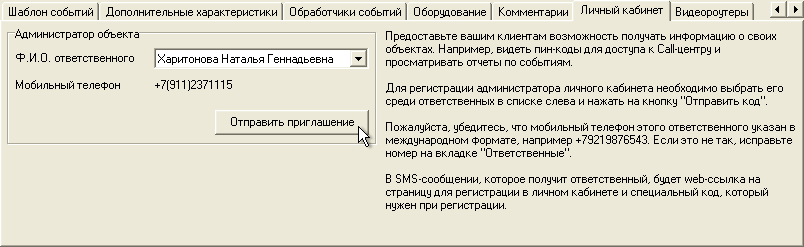
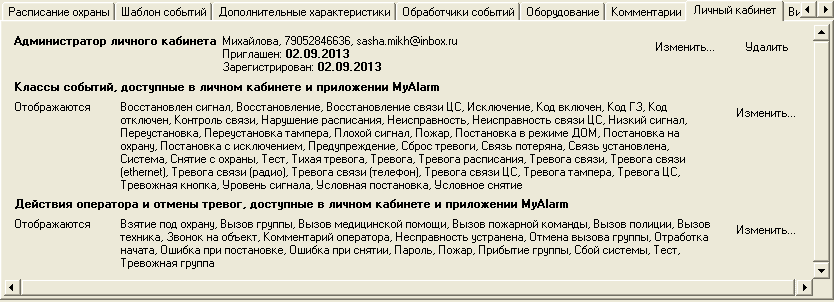
в главе "менеджер персонала" добавлен раздел "администраторы ЛК" в главе "менеджер объектов" переписан раздел "личный кабинет" в главе "что нового" поставлены новые ссылки на личный кабинет

Changed region(s): [[0.0, 0.0, 1.0, 1.0]]

diff --git a/russian/05-object-manager.md b/russian/05-object-manager.md
@@ -420,15 +420,29 @@
 
 ## Вкладка «Личный кабинет»
 
-Предоставить ответственному лицу доступ к «Личному кабинету» в Облаке можно на вкладке «Личный кабинет». Облачный сервис «Личный кабинет» позволяет клиентам частного охранного предприятия получать информацию о своих объектах (например, отчеты о постановках и снятиях с охраны, PIN коды для доступа к Call-центру).
+Облачный сервис «Личный кабинет» позволяет клиентам частного охранного предприятия получать информацию о своих объектах (например, отчеты о постановках и снятиях с охраны, PIN коды для доступа к Call-центру). 
+
+Предоставить администратору «Личного кабинета» доступ к тому или иному объекту «Центра охраны» можно на вкладке «Личный кабинет». 
 
 ![Вкладка «Личный кабинет»][id-05-16]
 
-Для регистрации администратора «Личного кабинета» следует перейти в режим редактирования объекта. В блоке «Администратор объекта» в поле «Ф.И.О. ответственного» необходимо выбрать из выпадающего списка ответственное лицо. В данном списке присутствуют ответственные лица, указанные на вкладке «Ответственные лица» и разрешенные для отображения в «Личном кабинете». 
+Для этого следует перейти в режим редактирования объекта и нажать кнопку «Изменить» напротив строки «Администратор личного кабинета». В открывшемся при этом окне необходимо выбрать администратора из представленного списка и нажать «OK». В данном списке присутствуют администраторы, созданные на вкладке «Администраторы ЛК» модуля «Менеджер персонала».
 
-При выборе ответственного лица в поле «Мобильный телефон» отобразится мобильный телефон ответственного лица, введенный в одноименном поле на вкладке «Ответственные лица». Данный телефон должен быть указан в международном формате.
+При выборе администратора в блоке «Администратор личного кабинета» отобразится его фамилия, номер мобильного телефона, электронный адрес, а также дата и время приглашения и регистрации в «Личном кабинете». 
 
-После того, как ответственное лицо будет выбрано, следует нажать кнопку «Отправить приглашение». На указанный мобильный номер ответственному лицу придет SMC-сообщение, в котором будет web-ссылка на страницу для регистрации в «Личном кабинете» и специальный код, необходимый при регистрации.
+Если требуется запретить доступ к объекту для ранее выбранного администратора, следует нажать кнопку «Удалить» в блоке «Администратор личного кабинета».
+
+В блоке «Классы событий, доступные в личном кабинете и приложении MyAlarm» необходимо выбрать классы событий, информация о которых будет отображаться в «Личном кабинете» выбранного администратора и в мобильном приложении «MyAlarm». Для этого следует нажать кнопку «Изменить», расположенную в данном блоке. 
+
+Открывающееся при этом окно «Редактирование классов событий» содержит два списка. В списке под названием «Отображаются» перечислены классы событий, информация о которых должна быть представлена в «Личном кабинете» и в «MyAlarm». 
+
+По умолчанию все классы событий указаны в списке под названием «Не отображаются». Для отображения информации о каком-либо классе событий в «Личном кабинете» и в «MyAlarm» необходимо перенести класс в список «Отображаются». Сделать это можно при помощи кнопок со стрелками, указывающими направление перемещения. Перенести все классы событий из одного списка в другой можно при помощи двойных стрелок. После оформления списков необходимо нажать кнопку «Применить» для завершения редактирования классов событий.
+
+В блоке «Действия оператора и отмены тревог, доступные в личном кабинете и приложении MyAlarm» необходимо выбрать действия оператора и отмены тревог, информация о которых будет представлена в «Личном кабинете» и в приложении «MyAlarm». Для этого следует нажать кнопку «Изменить», расположенную в данном блоке. 
+
+Редактирование действий оператора и отмены тревог происходит аналогично редактированию классов событий.
+
+После ввода необходимой информации на вкладке «Личный кабинет» следует завершить редактирование объекта, кликнув по иконке «Сохранить изменения».
 
 ## Вкладка «Видеороутеры»
 

diff --git a/russian/07-personnel-manager.md b/russian/07-personnel-manager.md
@@ -204,6 +204,25 @@
 
 Для отмены разрешения, выданного инженеру на доступ к какому-либо объекту, необходимо выделить разрешение в списке и нажать кнопку «Удалить разрешение».
 
+## Администраторы ЛК
+
+Вкладка «Администраторы ЛК» предназначена для управления списком администраторов, которым предоставляется доступ к «Личному кабинету».
+
+![Вкладка «Администраторы ЛК»][id-07-15]
+
+В списке представлена информация об администраторах: Ф.И.О., телефон, E-Mail, дата и время приглашения, а также дата и время регистрации администратора в «Личном кабинете».
+
+Для создания администратора «Личного кабинета» необходимо нажать кнопку «Добавить». В открывшемся при этом окне «Новый администратор ЛК» нужно ввести фамилию администратора в поле «Фамилия» и его мобильный телефон в международном формате в поле «Телефон» (например, +79219876543 или 89219876543). Для отправки администратору приглашения для регистрации в «Личном кабинете» следует поставить галочку в чек-боксе «Отправить приглашение». Для сохранения изменений нужно нажать кнопку «OK».
+
+![Добавление администратора ЛК][id-07-16]
+
+Для изменения данных уже созданного администратора «Личного кабинета» следует выделить его в списке администраторов и нажать кнопку «Изменить». В открывшемся при этом окне можно изменить фамилию и телефон администратора.
+
+Выслать приглашение администратору для регистрации в «Личном кабинете» можно также уже после создания его учетной записи, выделив администратора в списке и нажав кнопку «Пригласить». 
+При этом на мобильный номер администратора будет отправлено SMS-сообщение, содержащее web-ссылку на страницу для регистрации в «Личном кабинете» (https://my.cnord.net/) и специальный код, необходимый при регистрации.
+
+В строке напротив данного администратора отобразится дата и время отправления приглашения. Дата и время регистрации отобразится в списке после того, как администратор завершит регистрацию в «Личном кабинете».
+
 [id-07-01]: img/empman-01.png "Вкладка «Операторы»"
 [id-07-02]: img/empman-01-00.png "Выбор списка прав для нового оператора"
 [id-07-03]: img/empman-01-01.png "Права оператора в модуле «Менеджер событий»"
@@ -218,3 +237,5 @@
 [id-07-12]: img/empman-03.png "Вкладка «Компьютеры»"
 [id-07-13]: img/empman-04.png "Вкладка «Инженеры»"
 [id-07-14]: img/empman-04-00.png "Добавление инженера"
+[id-07-15]: img/empman-05.png "Вкладка «Администраторы ЛК»"
+[id-07-16]: img/empman-05-00.png "Добавление администратора ЛК"

diff --git a/russian/14-whats-new.md b/russian/14-whats-new.md
@@ -70,6 +70,10 @@ PIN коды для проверки КТС и для подтверждения
 
 С помощью данного сервиса можно просматривать информацию об объектах, отчет по постановкам и снятиям с охраны, а также список ответственных по объекту лиц. 
 
+Доступом к «Личному кабинету» обладает администратор «Личного кабинета», зарегистрированный в Облаке (см. [«Менеджер персонала. Администраторы ЛК»](/07-personnel-manager.html#администраторы-лк)).
+
+Администратор «Личного кабинета» может просматривать информацию об объектах, доступ к которым разрешен для его учетной записи оператором «Центра охраны». (См. [«Менеджер объектов. Вкладка "Личный кабинет"»](/05-object-manager.html#вкладка-личный-кабинет).)
+
 Для просмотра в «Личном кабинете» видео с камер, установленных на объекте, необходимо использовать видеороутеры (См. [«Менеджер объектов. Вкладка "Видеороутеры"»](/05-object-manager.html#вкладка-видеороутеры)).
 
 Кроме того, в «Личном кабинете» можно настраивать PIN коды ответственных лиц для доступа к услугам «Call-центра». Для этого должен быть подключен облачный сервис «Call-центр» (См. [«Облачные сервисы. Call-центр»](/12-cloud-services.html#call-центр)).
